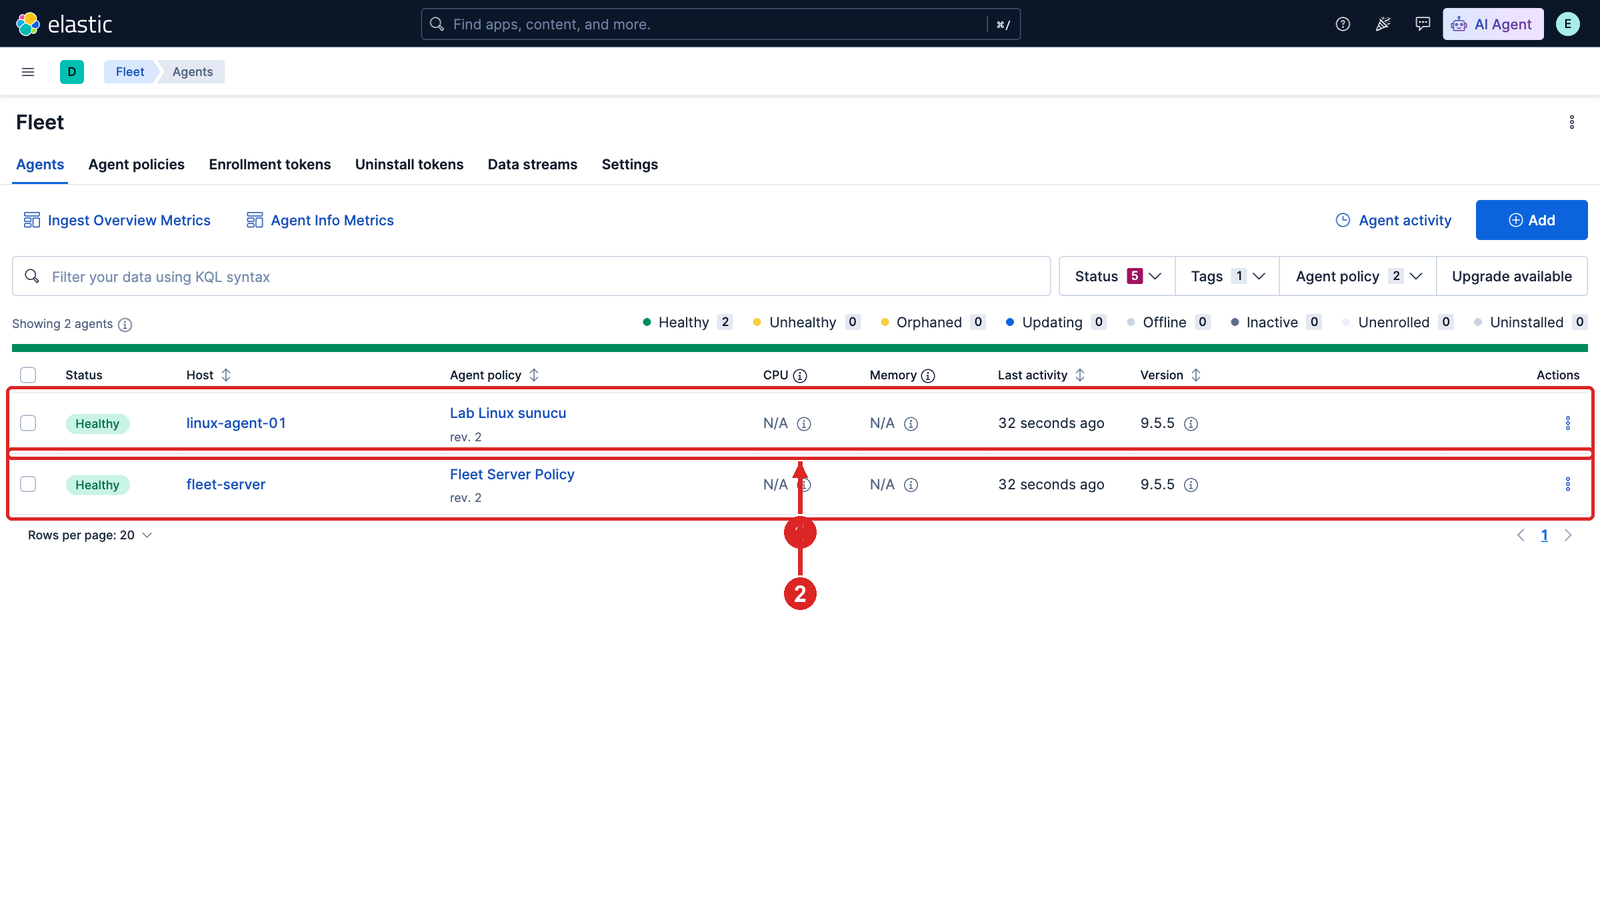
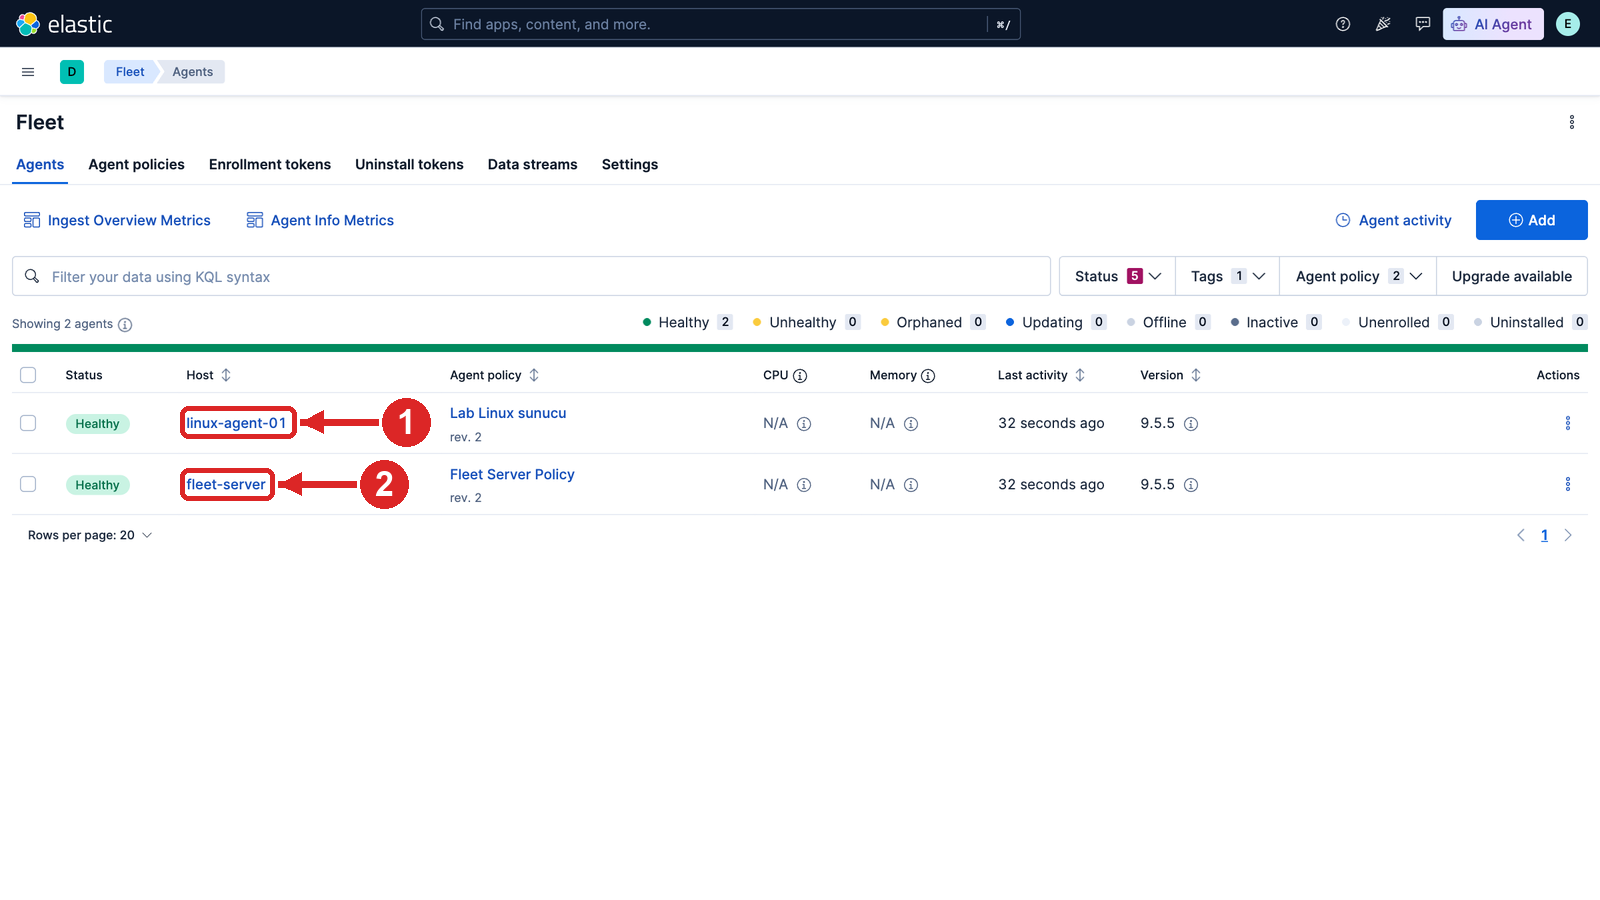
fix(screenshots): marker numbers no longer clipped or covering titles (LAB-11, 13, 14, 16, 17, 18)
Partner audit of LAB-11..27 images:
- kibana_shots.draw(): a marker without an arrow now puts its number inside the box (it used to sit on the
  box corner and was cut off at the image edge); numbers are clamped inside the image; new "ic" placement
  puts the number inside the box on the right so it does not cover a panel title.
- Redrawn from the unmarked copies taken at the same moment (isaret_yeniden.py), because re-running those
  flows would save or delete objects on the server: LAB-11 03a (numbers 1/2 on the two host names),
  LAB-11 07g (2 and 3 no longer cramped), LAB-13 07g, LAB-14 06b (1 visible), LAB-16 05f (2 and 4 visible,
  titles readable), LAB-17 07c (1 visible), LAB-18 02g (layer list and clusters, number 2 visible).
- LAB-11 05c/05d image captions now carry the marker numbers.
link_kontrol: broken links only in the uncommitted LAB-26 draft.

Changed region(s): [[0.0, 0.4044, 1.0, 0.6844]]

diff --git a/scripts/screenshots/isaret_yeniden.py b/scripts/screenshots/isaret_yeniden.py
@@ -1,0 +1,41 @@
+"""Isaretli bir goruntuyu, ayni anda alinmis isaretsiz kopyasindan (sunum/_build/ekran) yeniden cizer.
+Akisi tekrar calistirmak sunucuda nesne kaydi/silme gerektirdiginde kullanilir. Kutular CSS px (1600 genislik).
+    python3 scripts/screenshots/isaret_yeniden.py
+"""
+import os
+import shutil
+
+import kibana_shots as k
+
+ROOT = k.ROOT
+SUNUM = "/Users/hakan/elk/elk-workspace/sunum/_build/ekran"
+
+IS = {
+    # (lab, ad): [((x, y, w, h), no, ok)]
+    ("LAB-16", "05f-dort-panel"): [((11, 154, 783, 30), 1, "ic"), ((808, 154, 783, 30), 2, "ic"),
+                                   ((11, 574, 783, 30), 3, "ic"), ((808, 574, 783, 30), 4, "ic")],
+    ("LAB-11", "03a-fleet-agents"): [((186, 412, 104, 20), 1, "right"), ((186, 474, 82, 20), 2, "right")],
+    ("LAB-11", "07g-average"): [((1218, 344, 176, 28), 1, "left"), ((1340, 792, 242, 30), 2, "up"), ((1218, 852, 60, 32), 3, "left")],
+    ("LAB-14", "06b-pano-ara"): [((202, 210, 748, 38), 1, "left"), ((241, 314, 264, 16), 2, "left")],
+    ("LAB-13", "07g-pano"): [((8, 154, 788, 410), 1, "ic")],
+    ("LAB-17", "07c-eksik-panel"): [((8, 308, 788, 380), 1, None)],
+    ("LAB-18", "02g-harita"): [((1268, 190, 318, 332), 1, "left"), ((610, 370, 360, 90), 2, "down")],
+}
+
+
+def ciz(lab, ad, isaretler):
+    kaynak = os.path.join(SUNUM, lab, ad + ".png")
+    hedef = os.path.join(ROOT, "assets", "screenshots", lab, ad + ".png")
+    shutil.copyfile(kaynak, hedef)
+    eski = k.SCALE
+    k.SCALE = 1   # isaretsiz kopya zaten 1600 px'e indirilmis
+    try:
+        k.draw(hedef, [({"x": x, "y": y, "width": w, "height": h}, no, ok) for (x, y, w, h), no, ok in isaretler])
+    finally:
+        k.SCALE = eski
+    print("ok", hedef)
+
+
+if __name__ == "__main__":
+    for (lab, ad), isaretler in IS.items():
+        ciz(lab, ad, isaretler)

diff --git a/scripts/screenshots/kibana_shots.py b/scripts/screenshots/kibana_shots.py
@@ -102,7 +102,7 @@ def draw(path, marks):
         elif arrow == "down":
             tip, tail = (cx, y1 + 4), (cx, y1 + L)
         else:
-            tip = tail = None
+            tip = tail = None   # None: numara kutunun icinde solda; "ic": icinde sagda (basligi kapatmaz)
         if tip:
             d.line((tail, tip), fill=RED, width=7)
             import math
@@ -112,11 +112,16 @@ def draw(path, marks):
             p2 = (tip[0] - h * math.cos(ang + 0.45), tip[1] - h * math.sin(ang + 0.45))
             d.polygon([tip, p1, p2], fill=RED)
             nx, ny = tail
+        elif arrow == "ic":
+            nx, ny = x1 - 36, cy
         else:
-            nx, ny = x0, y0
+            nx, ny = x0 + 36, y0 + 36   # oksuz isaret: numara kutunun icinde, sol ust kosede
         if no is None:
             continue
         r = 24
+        # numara goruntunun disina tasmasin (kenara degen kutularda yarim kalmasin)
+        nx = min(max(nx, r + 6), im.width - r - 6)
+        ny = min(max(ny, r + 6), im.height - r - 6)
         d.ellipse((nx - r - 3, ny - r - 3, nx + r + 3, ny + r + 3), fill=(255, 255, 255))
         d.ellipse((nx - r, ny - r, nx + r, ny + r), fill=RED)
         t = str(no)

diff --git a/labs/LAB-11-fleet-elastic-agent/README.md b/labs/LAB-11-fleet-elastic-agent/README.md
@@ -445,11 +445,11 @@ Beklenen çıktı:
 3. **Collect metrics from System instances** satırında **Change defaults**'a tıklayın. **System process
    metrics** satırının **Period** değerini (1) `10s` yerine `30s` yapın ve **Save integration** (2):
 
-   ![Period 30s, Save integration](../../assets/screenshots/LAB-11/05c-period.png)
+   ![Period: 1 30s, 2 Save integration](../../assets/screenshots/LAB-11/05c-period.png)
 
 4. Onay penceresinde **Save and deploy changes** (1); pencere değişikliğin kaç ajanı etkileyeceğini söyler:
 
-   ![Save and deploy changes](../../assets/screenshots/LAB-11/05d-save-deploy.png)
+   ![Onay: 1 Save and deploy changes](../../assets/screenshots/LAB-11/05d-save-deploy.png)
 
 **Sonra:** ajanın yeni revision'a geçmesini bekleyin:
 
